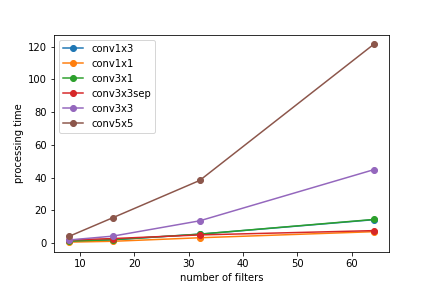
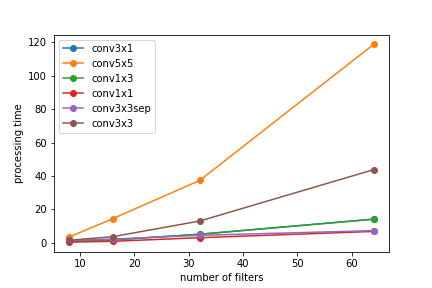
fix tables

diff --git a/README.md b/README.md
@@ -1,7 +1,6 @@
 # conv-benchmark
 
 
-
 # Results
 
 ### Keras CPU
@@ -10,9 +9,9 @@
 
 ||conv1x1|conv3x1|conv1x3|conv3x3sep|conv3x3|conv5x5|
 |:-:|:-:|:-:|:-:|:-:|:-:|:-:|
-|processing time [sec]|6.859|14.329|14.184|7.509|44.746|121.381|
-|vs 3x3|0.153|0.320|0.317|0.168|1.000|2.713|
-|theoretical complexity|0.111|0.333|0.333|0.016|1.000|
+|processing time [sec]|6.693|14.083|14.022|7.197|43.729|118.820|
+|vs 3x3|0.153|0.322|0.321|0.165|1.000|2.717|
+|theoretical complexity|0.111|0.333|0.333|0.016|1.000|2.778|
 
 ### Keras GPU
 
@@ -20,9 +19,9 @@
 
 ||conv1x1|conv3x1|conv1x3|conv3x3sep|conv3x3|conv5x5|
 |:-:|:-:|:-:|:-:|:-:|:-:|:-:|
-|processing time [sec]|1.231|1.609|1.371|1.481|1.568|2.931|
-|vs 3x3|0.785|1.026|0.875|0.944|1.000|1.870|
-|theoretical complexity|0.111|0.333|0.333|0.016|1.000|
+|processing time [sec]|1.303|1.457|1.514|1.436|1.443|2.835|
+|vs 3x3|0.903|1.009|1.049|0.995|1.000|1.965|
+|theoretical complexity|0.111|0.333|0.333|0.016|1.000|2.778|
 
 ### PyTorch CPU
 
@@ -30,9 +29,9 @@
 
 ||conv1x1|conv3x1|conv1x3|conv3x3sep|conv3x3|conv5x5|
 |:-:|:-:|:-:|:-:|:-:|:-:|:-:|
-|processing time [sec]|7.281|19.112|17.575|22.769|63.507|176.341|
-|vs 3x3|0.115|0.301|0.277|0.359|1.000|2.777|
-|theoretical complexity|0.111|0.333|0.333|0.016|1.000|
+|processing time [sec]|6.920|17.099|17.088|16.628|48.608|133.599|
+|vs 3x3|0.142|0.352|0.352|0.342|1.000|2.748|
+|theoretical complexity|0.111|0.333|0.333|0.016|1.000|2.778|
 
 ### PyTorch GPU
 
@@ -40,6 +39,6 @@
 
 ||conv1x1|conv3x1|conv1x3|conv3x3sep|conv3x3|conv5x5|
 |:-:|:-:|:-:|:-:|:-:|:-:|:-:|
-|processing time [sec]|0.102|0.170|0.167|3.797|0.229|1.103|
-|vs 3x3|0.444|0.744|0.728|16.581|1.000|4.816|
-|theoretical complexity|0.111|0.333|0.333|0.016|1.000|
+|processing time [sec]|0.102|0.173|0.169|3.786|0.230|1.108|
+|vs 3x3|0.441|0.750|0.733|16.447|1.000|4.816|
+|theoretical complexity|0.111|0.333|0.333|0.016|1.000|2.778|
